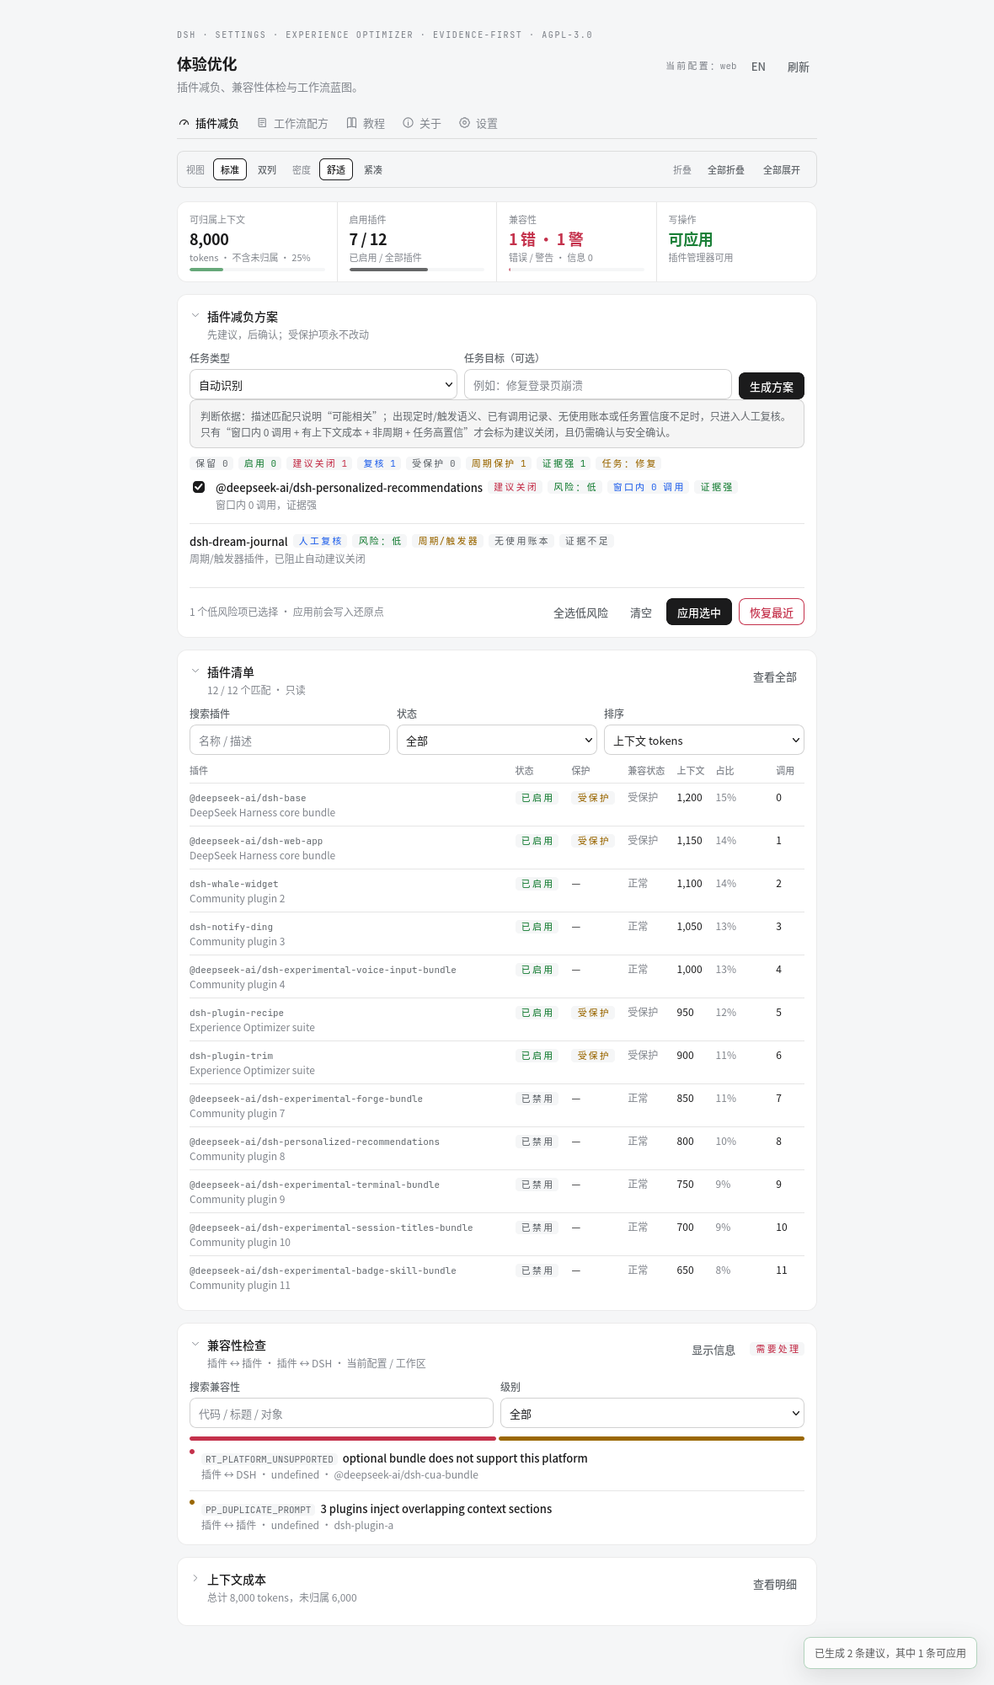
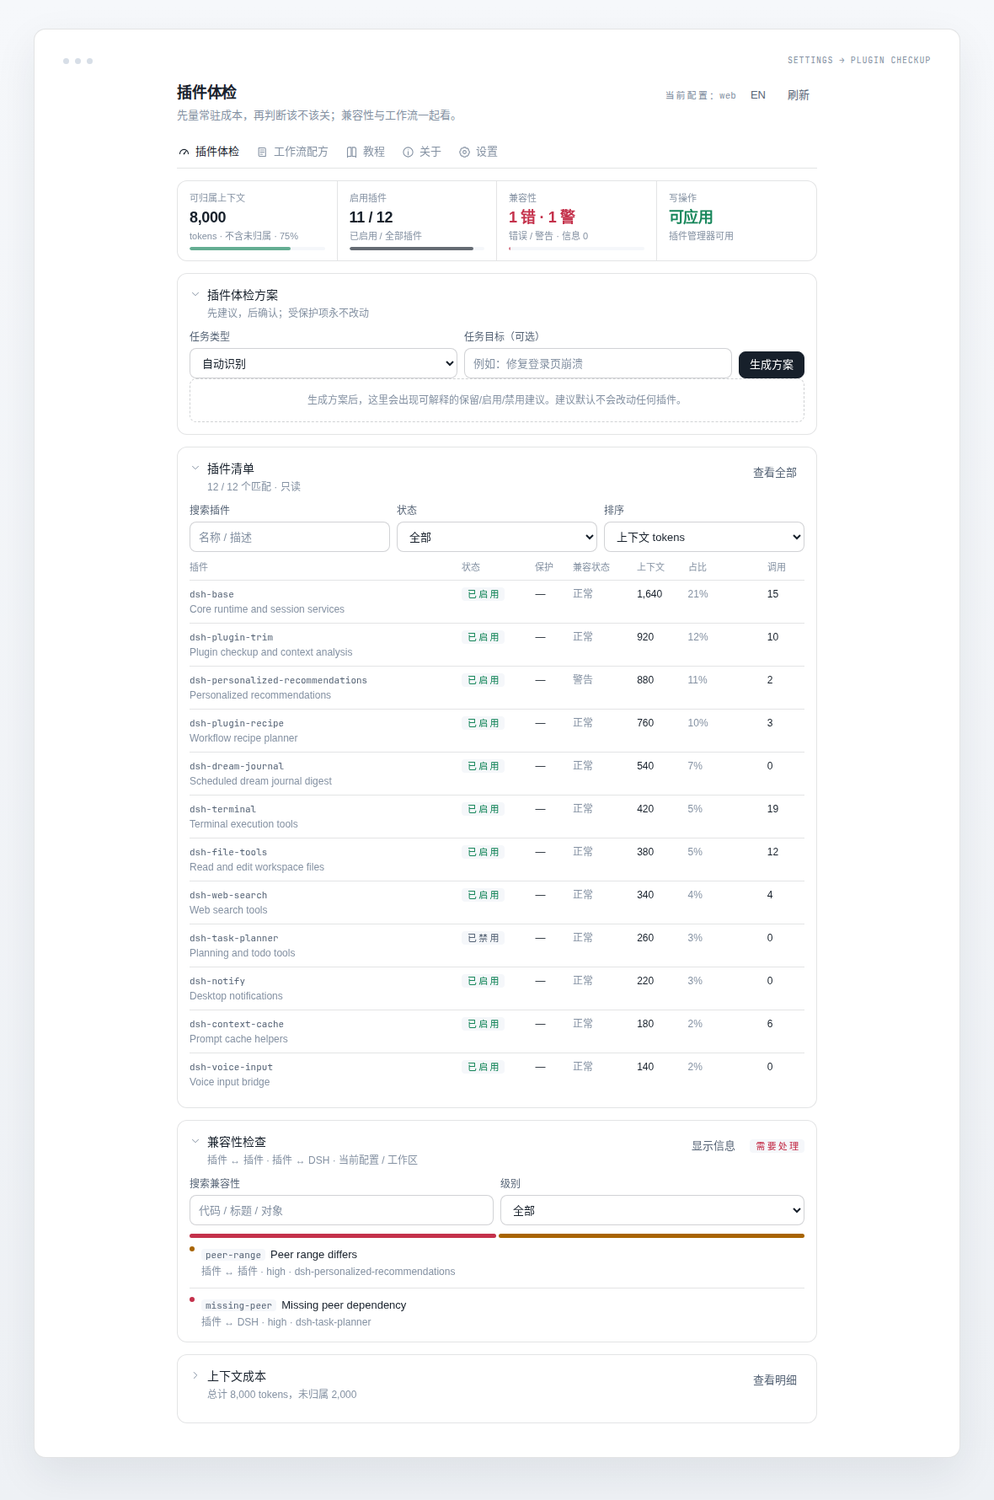
feat: make the checkup framing explicit on the promo page

diff --git a/site/i18n.js b/site/i18n.js
@@ -2,9 +2,9 @@
   const KEY = 'dsh-experience-optimizer.site.locale'
   const zh = {
     skip: '跳到主要内容', navWhy: '为什么', navHow: '怎么工作', navFeatures: '功能', navInstall: '安装', navFaq: '问答', navAbout: '关于', navCta: '安装',
-    heroEyebrow: 'DSH · CONTEXT OBSERVATORY',
+    heroEyebrow: 'DSH · PLUGIN CHECKUP',
     heroLine1: '插件在偷偷', heroLine2: '吃上下文。', heroLine3: '现在，', heroLine4: '把它拖到光下。',
-    heroLede: 'DSH 体验优化器把插件常驻成本、兼容性检查和减负方案放进一个可观察的界面。少一点插件负担，多一点兼容确定性。',
+    heroLede: 'DSH 插件体检把插件常驻成本、兼容性检查和误关风险放进一次可解释的体检。少一点插件负担，多一点兼容确定性。',
     ctaInstall: '安装最新版', ctaHow: '看判断依据', copy: '复制',
     heroMicro: '省略版本号即最新版 · 两个插件可独立或同时使用',
     instrumentTop: 'TOPOLOGY / 14 NODES', instrumentLive: 'LIVE',
@@ -18,10 +18,12 @@
     problemKicker: '看不见的成本',
     problemTitle1: '你砍掉了工具白名单，', problemTitle2: '却没量过插件的常驻上下文。',
     problemBody: '工具调用看得见，插件的提示词和工具描述却一直在后台占位。先量出来，再决定关掉什么。',
-    statLabel: '示例 profile 的常驻上下文降幅', statNote: '示例数据，不是你的 profile。',
-    costBefore: '应用前', costAfter: '应用后', costDelta: '−1,312 tokens · 少 54%',
+    statLabel: '示例降幅，不是关闭目标', statNote: '54% 是示例数据，不是你的 profile；关错了比开着更贵。',
+    costBefore: '应用前', costAfter: '应用后', costDelta: '−1,312 tokens · 示例降幅 54%',
+    judgeNote: '判断不是只看词像不像：先看本任务/会话是否调用，再看账本、周期与成本；任一不确定只进入复核。',
+    quietNote: '平时不吭声、关键时刻才出手的插件最容易被误关；周期/触发、已有调用、无账本都会先保护或复核。',
     evidenceKicker: '02 / EVIDENCE CHAIN', evidenceTitle1: '先过闸门，', evidenceTitle2: '再谈建议关闭。',
-    evidenceBody: '描述匹配只说明“可能相关”。强证据要同时穿过任务、账本、周期和成本四道门。',
+    evidenceBody: '先看本任务/会话有没有调用，再看账本、周期和成本。词像不像只是弱信号，不能单独判“用不上”。',
     legendReview: '进入人工复核', legendClose: '才可能成为候选',
     gate1Kicker: '任务相关', gate1Title: '描述匹配，只算相关', gate1Body: '关键词命中不单独构成“用不上”。', gateWeak: '弱证据',
     gate2Kicker: '使用账本', gate2Title: '有调用记录，直接复核', gate2Body: '历史或本会话调用过，就不自动建议关闭。', gateGuard: '保护',
@@ -30,11 +32,11 @@
     gateResultKicker: 'RESULT', gateResultTitle: '强证据 → 候选；其余 → 复核',
     gateResultBody: '即使成为候选，也仍然需要确认与 host 审批 allowed-once。',
     productKicker: '一个套件，两条路径',
-    trimTitle: '插件减负', trimBody: '扫描上下文占比与兼容性，生成可解释的保留/启用/关闭方案；低风险项经确认与安全审批后应用。',
+    trimTitle: '插件体检', trimBody: '先量上下文占比与兼容性，再给出可解释的保留/启用/关闭建议；低风险项经确认与安全审批后应用。',
     trim1: '插件清单搜索 / 筛选 / 排序', trim2: '定时/触发与已用插件保护', trim3: '还原点、恢复与逐项解释', trimLink: '查看 npm 包 ↗',
     recipeTitle: '工作流配方', recipeBody: '把业务目标翻译成可校验、可导出的工作流蓝图，每一步都标注审批级别。',
     recipe1: '步骤 / 能力 / 最小插件集', recipe2: '依赖与兼容性校验', recipe3: 'Markdown / JSON 运行手册', recipeLink: '查看 npm 包 ↗',
-    consoleLabel: '设置 → 体验优化',
+    consoleLabel: '设置 → 插件体检',
     safetyKicker: '04 / SAFETY IS A VERB', safetyTitle1: '安全不是弹窗，', safetyTitle2: '是每一步都能回头。',
     safetyBody: '只读分析、低风险、安全确认、还原点。没有任何一步靠“相信模型”。', sealNote: 'host approval',
     safety1Title: '只读扫描', safety1Body: '不执行 !!js、不联网分析。',
@@ -51,16 +53,16 @@
     q3: '应用后出问题怎么办？', a3: '每次应用前写入还原点。在界面点击“恢复最近”，或调用 trim_rollback_profile；恢复同样需要安全确认。',
     q4: '为什么还需要宿主审批？', a4: 'confirm: true 只是提案标记。宿主审批返回 allowed-once 才是授权；拒绝、取消或审批不可用时一律不写入。',
     aboutKicker: '关于 / 支持', aboutTitle1: '一个本地优先的', aboutTitle2: 'DSH 插件套件。',
-    aboutBody: 'AGPL-3.0 · 作者 Starlit Sky · 欢迎反馈、试用和一起把插件生态做轻。',
+    aboutBody: 'AGPL-3.0 · 作者 Starlit Sky · 先体检，再决定关什么。',
     qqTitle: '交流群', qqLabel: 'QQ 群：', donateTitle: '支持项目',
     donateBody: '捐赠方式：待补充。当前也可以通过反馈、文档和插件试用来支持。',
     licenseTitle: '许可证', siteReadme: '站点说明',
   }
   const en = {
     skip: 'Skip to content', navWhy: 'Why', navHow: 'How', navFeatures: 'Features', navInstall: 'Install', navFaq: 'FAQ', navAbout: 'About', navCta: 'Install',
-    heroEyebrow: 'DSH · CONTEXT OBSERVATORY',
+    heroEyebrow: 'DSH · PLUGIN CHECKUP',
     heroLine1: 'Plugins quietly', heroLine2: 'eat your context.', heroLine3: 'Now', heroLine4: 'drag it into the light.',
-    heroLede: 'DSH Experience Optimizer puts resident plugin cost, compatibility checks, and slim plans into one observable interface. Less plugin overhead, more compatibility certainty.',
+    heroLede: 'DSH Plugin Checkup puts resident plugin cost, compatibility checks, and mistaken-close risk into one explainable checkup. Less plugin overhead, more compatibility certainty.',
     ctaInstall: 'Install latest', ctaHow: 'See the evidence', copy: 'Copy',
     heroMicro: 'No @version means latest · use either plugin, or both together',
     instrumentTop: 'TOPOLOGY / 14 NODES', instrumentLive: 'LIVE',
@@ -74,10 +76,12 @@
     problemKicker: 'Invisible cost',
     problemTitle1: 'You cut the tool allowlist.', problemTitle2: 'Nobody measured resident plugin context.',
     problemBody: 'Tool calls are visible; plugin prompts and tool descriptions keep occupying space in the background. Measure first, then decide what to close.',
-    statLabel: 'Resident context reduction in the sample profile', statNote: 'Sample data, not your profile.',
-    costBefore: 'Before', costAfter: 'After', costDelta: '−1,312 tokens · 54% less',
+    statLabel: 'Sample reduction — not a close target', statNote: '54% is sample data, not your profile. A wrong close costs more than keeping it on.',
+    costBefore: 'Before', costAfter: 'After', costDelta: '−1,312 tokens · sample 54% reduction',
+    judgeNote: 'This is not a keyword-match decision. First check whether this task/session used it, then the ledger, schedule, and cost. Any uncertainty goes to review.',
+    quietNote: 'Quiet plugins that only wake up at the right moment are the easiest to close by mistake. Schedules, prior calls, or no ledger keep them protected or in review.',
     evidenceKicker: '02 / EVIDENCE CHAIN', evidenceTitle1: 'Pass the gates.', evidenceTitle2: 'Then talk about closing.',
-    evidenceBody: 'A description match only means “possibly relevant”. Strong evidence must pass task, ledger, schedule, and cost gates together.',
+    evidenceBody: 'First check whether this task/session used it, then the ledger, schedule, and cost. A keyword match is only a weak signal; it can never prove “unused”.',
     legendReview: 'Goes to human review', legendClose: 'May become a candidate',
     gate1Kicker: 'Task relevance', gate1Title: 'A description match is only relevance', gate1Body: 'A keyword hit alone never proves “unused”.', gateWeak: 'Weak evidence',
     gate2Kicker: 'Usage ledger', gate2Title: 'Used before? Review it', gate2Body: 'Any historical or session calls block an automatic close suggestion.', gateGuard: 'Guarded',
@@ -86,11 +90,11 @@
     gateResultKicker: 'RESULT', gateResultTitle: 'Strong evidence → candidate; everything else → review',
     gateResultBody: 'Even a candidate still needs confirmation and host approval returning allowed-once.',
     productKicker: 'One suite, two paths',
-    trimTitle: 'Plugin diet', trimBody: 'Scan context share and compatibility, then build an explainable keep/enable/close plan. Low-risk items apply only after confirmation and safety approval.',
+    trimTitle: 'Plugin checkup', trimBody: 'Measure context share and compatibility first, then build an explainable keep/enable/close plan. Low-risk items apply only after confirmation and safety approval.',
     trim1: 'Inventory search / filter / sort', trim2: 'Scheduled/trigger and used-plugin protection', trim3: 'Restore points, recovery, and item-level reasons', trimLink: 'View npm package ↗',
     recipeTitle: 'Workflow recipe', recipeBody: 'Turn a business goal into a validated, exportable workflow blueprint with approval levels on every step.',
     recipe1: 'Steps / capabilities / minimum plugin set', recipe2: 'Dependency and compatibility checks', recipe3: 'Markdown / JSON runbook', recipeLink: 'View npm package ↗',
-    consoleLabel: 'Settings → Experience Optimizer',
+    consoleLabel: 'Settings → Plugin checkup',
     safetyKicker: '04 / SAFETY IS A VERB', safetyTitle1: 'Safety is not a popup.', safetyTitle2: 'It is a way back.',
     safetyBody: 'Read-only analysis, low risk, safety approval, restore point. Nothing relies on “trust the model”.', sealNote: 'host approval',
     safety1Title: 'Read-only scan', safety1Body: 'No !!js, no network analysis.',
@@ -107,7 +111,7 @@
     q3: 'What if something breaks after apply?', a3: 'A restore point is written before every apply. Use Restore latest or trim_rollback_profile; recovery also needs safety approval.',
     q4: 'Why is host approval still needed?', a4: 'confirm: true is only a proposal marker. Host approval returning allowed-once is the grant; rejection, cancellation, or unavailable approval never writes.',
     aboutKicker: 'About / support', aboutTitle1: 'A local-first', aboutTitle2: 'DSH plugin suite.',
-    aboutBody: 'AGPL-3.0 · by Starlit Sky · feedback, trial use, and help making the plugin ecosystem lighter are welcome.',
+    aboutBody: 'AGPL-3.0 · by Starlit Sky · check first, then decide what to close.',
     qqTitle: 'Community', qqLabel: 'QQ group: ', donateTitle: 'Support',
     donateBody: 'Donation methods: to be added. Feedback, docs, and trying the plugins are the best support today.',
     licenseTitle: 'License', siteReadme: 'Site notes',
@@ -134,11 +138,11 @@
       lang.textContent = current === 'zh' ? 'EN' : '中文'
       lang.setAttribute('aria-label', current === 'zh' ? 'Switch to English' : '切换到中文')
     }
-    document.title = current === 'zh' ? 'DSH 体验优化器 · Context Observatory' : 'DSH Experience Optimizer · Context Observatory'
+    document.title = current === 'zh' ? 'DSH 插件体检 · Context Observatory' : 'DSH Plugin Checkup · Context Observatory'
     const desc = document.querySelector('meta[name="description"]')
     if (desc) desc.setAttribute('content', current === 'zh'
-      ? 'DSH 体验优化器：让插件常驻上下文可见，让减负按证据发生。'
-      : 'DSH Experience Optimizer: make resident plugin context visible and reduce it with evidence.')
+      ? 'DSH 插件体检：先量插件常驻上下文，再按证据决定关不关。'
+      : 'DSH Plugin Checkup: measure resident plugin context first, then decide with evidence.')
     try { localStorage.setItem(KEY, current) } catch {}
   }
   window.siteLocale = { get: () => current, toggle: () => apply(current === 'zh' ? 'en' : 'zh'), apply }

diff --git a/site/index.html b/site/index.html
@@ -3,13 +3,13 @@
 <head>
   <meta charset="utf-8">
   <meta name="viewport" content="width=device-width, initial-scale=1">
-  <meta name="description" content="DSH 体验优化器：让插件常驻上下文可见，让减负按证据发生。">
+  <meta name="description" content="DSH 插件体检：先量插件常驻上下文，再按证据决定关不关。">
   <meta name="theme-color" content="#07101d">
-  <meta property="og:title" content="DSH 体验优化器 · Context Observatory">
+  <meta property="og:title" content="DSH 插件体检 · Context Observatory">
   <meta property="og:description" content="插件在偷偷吃上下文。现在，把它拖到光下。">
   <meta property="og:image" content="./assets/cover.jpg">
   <meta property="og:type" content="website">
-  <title>DSH 体验优化器 · Context Observatory</title>
+  <title>DSH 插件体检 · Context Observatory</title>
   <link rel="icon" href="./assets/icon.png">
   <link rel="preload" as="image" href="./assets/cover.jpg">
   <link rel="stylesheet" href="./styles.css">
@@ -52,8 +52,8 @@
       <div class="intro-scene intro-stage intro-scene-cost" data-scene="cost">
         <div class="scene-copy">
           <p class="scene-kicker">01 / RESIDENT CONTEXT</p>
-          <h2 class="scene-title">Measure first.<br><span>Then cut.</span></h2>
-          <p class="scene-body">Sample profile: 14 plugins, 2,417 resident tokens. Attribute the cost before disabling anything.</p>
+          <h2 class="scene-title">Measure first.<br><span>Then decide.</span></h2>
+          <p class="scene-body">Sample profile: 14 plugins, 2,417 resident tokens. 54% is a sample, not a close target.</p>
           <div class="scene-stat"><b id="intro-cost">2,417</b><small>tokens</small><em>→ 1,105</em></div>
         </div>
         <div class="cost-visual" aria-hidden="true">
@@ -82,7 +82,7 @@
         <div class="scene-copy">
           <p class="scene-kicker">02 / EVIDENCE CHAIN</p>
           <h2 class="scene-title">Four gates.<br><span>One answer.</span></h2>
-          <p class="scene-body">Task, ledger, schedule, cost. A keyword match is never enough.</p>
+          <p class="scene-body">Task, ledger, schedule, cost. Quiet plugins are protected before any close.</p>
           <div class="scene-seal">ALLOWED · ONCE</div>
         </div>
         <div class="gate-visual" aria-hidden="true">
@@ -118,9 +118,9 @@
       <div class="intro-scene intro-stage intro-scene-close" data-scene="close">
         <div class="close-shell">
           <p class="scene-kicker">04 / READY</p>
-          <div class="close-wordmark"><span>DSH</span><strong>EXPERIENCE<br>OPTIMIZER</strong></div>
+          <div class="close-wordmark"><span>DSH</span><strong>PLUGIN<br>CHECKUP</strong></div>
           <p class="close-tagline">Less context. More certainty.</p>
-          <div class="close-stats"><span>−54% context</span><span>2 plugins</span><span>1 approval boundary</span></div>
+          <div class="close-stats"><span>sample −54% context</span><span>2 plugins</span><span>1 approval boundary</span></div>
         </div>
       </div>
 
@@ -141,9 +141,9 @@
   <a class="skip" href="#main" data-i18n="skip">跳到主要内容</a>
 
   <header class="site-header" id="site-header">
-    <a class="brand" href="#top" aria-label="DSH Experience Optimizer">
+    <a class="brand" href="#top" aria-label="DSH Plugin Checkup">
       <img src="./assets/icon.png" alt="" width="34" height="34">
-      <span>DSH <b>Experience Optimizer</b></span>
+      <span>DSH <b>Plugin Checkup</b></span>
     </a>
     <nav class="nav" aria-label="主导航">
       <a href="#why" data-i18n="navWhy">为什么</a>
@@ -165,14 +165,14 @@
       <div class="hero-glow" aria-hidden="true"></div>
       <div class="hero-grid">
         <div class="hero-copy">
-          <p class="eyebrow" data-i18n="heroEyebrow">DSH · CONTEXT OBSERVATORY</p>
+          <p class="eyebrow" data-i18n="heroEyebrow">DSH · PLUGIN CHECKUP</p>
           <h1 class="display">
             <span class="line" data-i18n="heroLine1">插件在偷偷</span>
             <span class="line" data-i18n="heroLine2">吃上下文。</span>
             <span class="line line-accent" data-i18n="heroLine3">现在，</span>
             <span class="line line-accent" data-i18n="heroLine4">把它拖到光下。</span>
           </h1>
-          <p class="lede" data-i18n="heroLede">DSH 体验优化器把插件常驻成本、兼容性检查和减负方案放进一个可观察的界面。少一点插件负担，多一点兼容确定性。</p>
+          <p class="lede" data-i18n="heroLede">DSH 插件体检把插件常驻成本、兼容性检查和误关风险放进一次可解释的体检。少一点插件负担，多一点兼容确定性。</p>
           <div class="hero-actions">
             <a class="button primary" href="#install" data-i18n="ctaInstall">安装最新版</a>
             <a class="button" href="#how" data-i18n="ctaHow">看判断依据</a>
@@ -238,7 +238,7 @@
       <figure class="poster-frame">
         <picture>
           <source media="(max-width: 700px)" srcset="./assets/cover-3x4.jpg">
-          <img src="./assets/cover.jpg" alt="DSH 体验优化器宣传海报：轻一点，走得更远" width="1920" height="1080">
+          <img src="./assets/cover.jpg" alt="DSH 插件体检宣传海报：轻一点，走得更远" width="1920" height="1080">
         </picture>
         <figcaption data-i18n="posterCaption">宣传片封面 · 示例 profile · AGPL-3.0</figcaption>
       </figure>
@@ -253,23 +253,25 @@
         </div>
         <div class="stat-block">
           <div class="stat-number"><span data-count-to="54">54</span><small>%</small></div>
-          <p data-i18n="statLabel">示例 profile 的常驻上下文降幅</p>
+          <p data-i18n="statLabel">示例降幅，不是关闭目标</p>
           <div class="stat-track"><i data-bar-to="46"></i></div>
-          <p class="stat-note" data-i18n="statNote">示例数据，不是你的 profile。</p>
+          <p class="stat-note" data-i18n="statNote">54% 是示例数据，不是你的 profile；关错了比开着更贵。</p>
         </div>
       </div>
       <div class="cost-compare" aria-label="上下文成本示例">
         <div class="cost-row"><span data-i18n="costBefore">应用前</span><strong>2,417</strong><div class="cost-line"><i style="width:100%"></i></div></div>
         <div class="cost-row"><span data-i18n="costAfter">应用后</span><strong>1,105</strong><div class="cost-line"><i data-bar-to="46"></i></div></div>
-        <p class="cost-delta" data-i18n="costDelta">−1,312 tokens · 少 54%</p>
+        <p class="cost-delta" data-i18n="costDelta">−1,312 tokens · 示例降幅 54%</p>
       </div>
+      <p class="judge-note" data-i18n="judgeNote">判断不是只看词像不像：先看本任务/会话是否调用，再看账本、周期与成本；任一不确定只进入复核。</p>
+      <p class="quiet-note" data-i18n="quietNote">平时不吭声、关键时刻才出手的插件最容易被误关；周期/触发、已有调用、无账本都会先保护或复核。</p>
     </section>
 
     <section class="evidence" id="how">
       <div class="evidence-sticky">
         <p class="kicker" data-i18n="evidenceKicker">02 / EVIDENCE CHAIN</p>
         <h2 class="display-2"><span data-i18n="evidenceTitle1">先过闸门，</span><br><span data-i18n="evidenceTitle2">再谈建议关闭。</span></h2>
-        <p data-i18n="evidenceBody">描述匹配只说明“可能相关”。强证据要同时穿过任务、账本、周期和成本四道门。</p>
+        <p data-i18n="evidenceBody">先看本任务/会话有没有调用，再看账本、周期和成本。词像不像只是弱信号，不能单独判“用不上”。</p>
         <div class="evidence-legend">
           <span><i class="dot dot-warn"></i><span data-i18n="legendReview">进入人工复核</span></span>
           <span><i class="dot dot-ok"></i><span data-i18n="legendClose">才可能成为候选</span></span>
@@ -310,8 +312,8 @@
       <div class="product-grid">
         <article class="product-card">
           <p class="tag">dsh-plugin-trim</p>
-          <h2 data-i18n="trimTitle">插件减负</h2>
-          <p data-i18n="trimBody">扫描上下文占比与兼容性，生成可解释的保留/启用/关闭方案；低风险项经确认与安全审批后应用。</p>
+          <h2 data-i18n="trimTitle">插件体检</h2>
+          <p data-i18n="trimBody">先量上下文占比与兼容性，再给出可解释的保留/启用/关闭建议；低风险项经确认与安全审批后应用。</p>
           <ul>
             <li data-i18n="trim1">插件清单搜索 / 筛选 / 排序</li>
             <li data-i18n="trim2">定时/触发与已用插件保护</li>
@@ -332,8 +334,8 @@
         </article>
       </div>
       <figure class="console">
-        <div class="console-bar"><i></i><i></i><i></i><span data-i18n="consoleLabel">设置 → 体验优化</span></div>
-        <img src="./assets/ui-preview.png" alt="DSH 体验优化器控制台：插件清单、精简方案与兼容性检查" loading="lazy">
+        <div class="console-bar"><i></i><i></i><i></i><span data-i18n="consoleLabel">设置 → 插件体检</span></div>
+        <img src="./assets/ui-preview.png" alt="DSH 插件体检控制台：插件清单、体检方案与兼容性检查" loading="lazy">
       </figure>
     </section>
 
@@ -386,7 +388,7 @@
       <div class="about-grid">
         <div>
           <h2 class="display-2"><span data-i18n="aboutTitle1">一个本地优先的</span><br><span data-i18n="aboutTitle2">DSH 插件套件。</span></h2>
-          <p class="about-lede" data-i18n="aboutBody">AGPL-3.0 · 作者 Starlit Sky · 欢迎反馈、试用和一起把插件生态做轻。</p>
+          <p class="about-lede" data-i18n="aboutBody">AGPL-3.0 · 作者 Starlit Sky · 先体检，再决定关什么。</p>
           <div class="about-links">
             <a href="https://github.com/Starlit-Sky-code/dsh-experience-optimizer" target="_blank" rel="noreferrer">GitHub ↗</a>
             <a href="https://www.npmjs.com/package/dsh-plugin-trim" target="_blank" rel="noreferrer">npm · trim ↗</a>
@@ -413,7 +415,7 @@
   </main>
 
   <footer class="site-footer">
-    <img src="./assets/icon.png" alt="DSH 体验优化器图标" width="56" height="56">
+    <img src="./assets/icon.png" alt="DSH 插件体检图标" width="56" height="56">
     <p class="copyright">Copyright © 2026 Starlit Sky · AGPL-3.0-only</p>
     <p><a href="./README.md" data-i18n="siteReadme">站点说明</a> · <a href="https://github.com/Starlit-Sky-code/dsh-experience-optimizer" target="_blank" rel="noreferrer">GitHub</a></p>
   </footer>

diff --git a/site/styles.css b/site/styles.css
@@ -510,6 +510,9 @@ section[id] { scroll-margin-top: 82px; }
 .cost-line { height: 2px; background: rgba(14,31,51,.1); }
 .cost-line i { display: block; height: 100%; background: var(--ink); }
 .cost-delta { margin: 10px 0 0 196px; color: #0f6b63; font: 11.5px/1.5 var(--mono); }
+.judge-note, .quiet-note { max-width: var(--page); margin: 16px auto 0; color: #52677c; font-size: 13px; line-height: 1.75; }
+.quiet-note { margin-top: 8px; padding-left: 12px; border-left: 2px solid var(--amber); color: #35495e; }
+
 .evidence {
   position: relative; display: grid; grid-template-columns: minmax(280px, .8fr) minmax(0, 1.2fr);
   gap: clamp(40px, 8vw, 120px); align-items: start;
